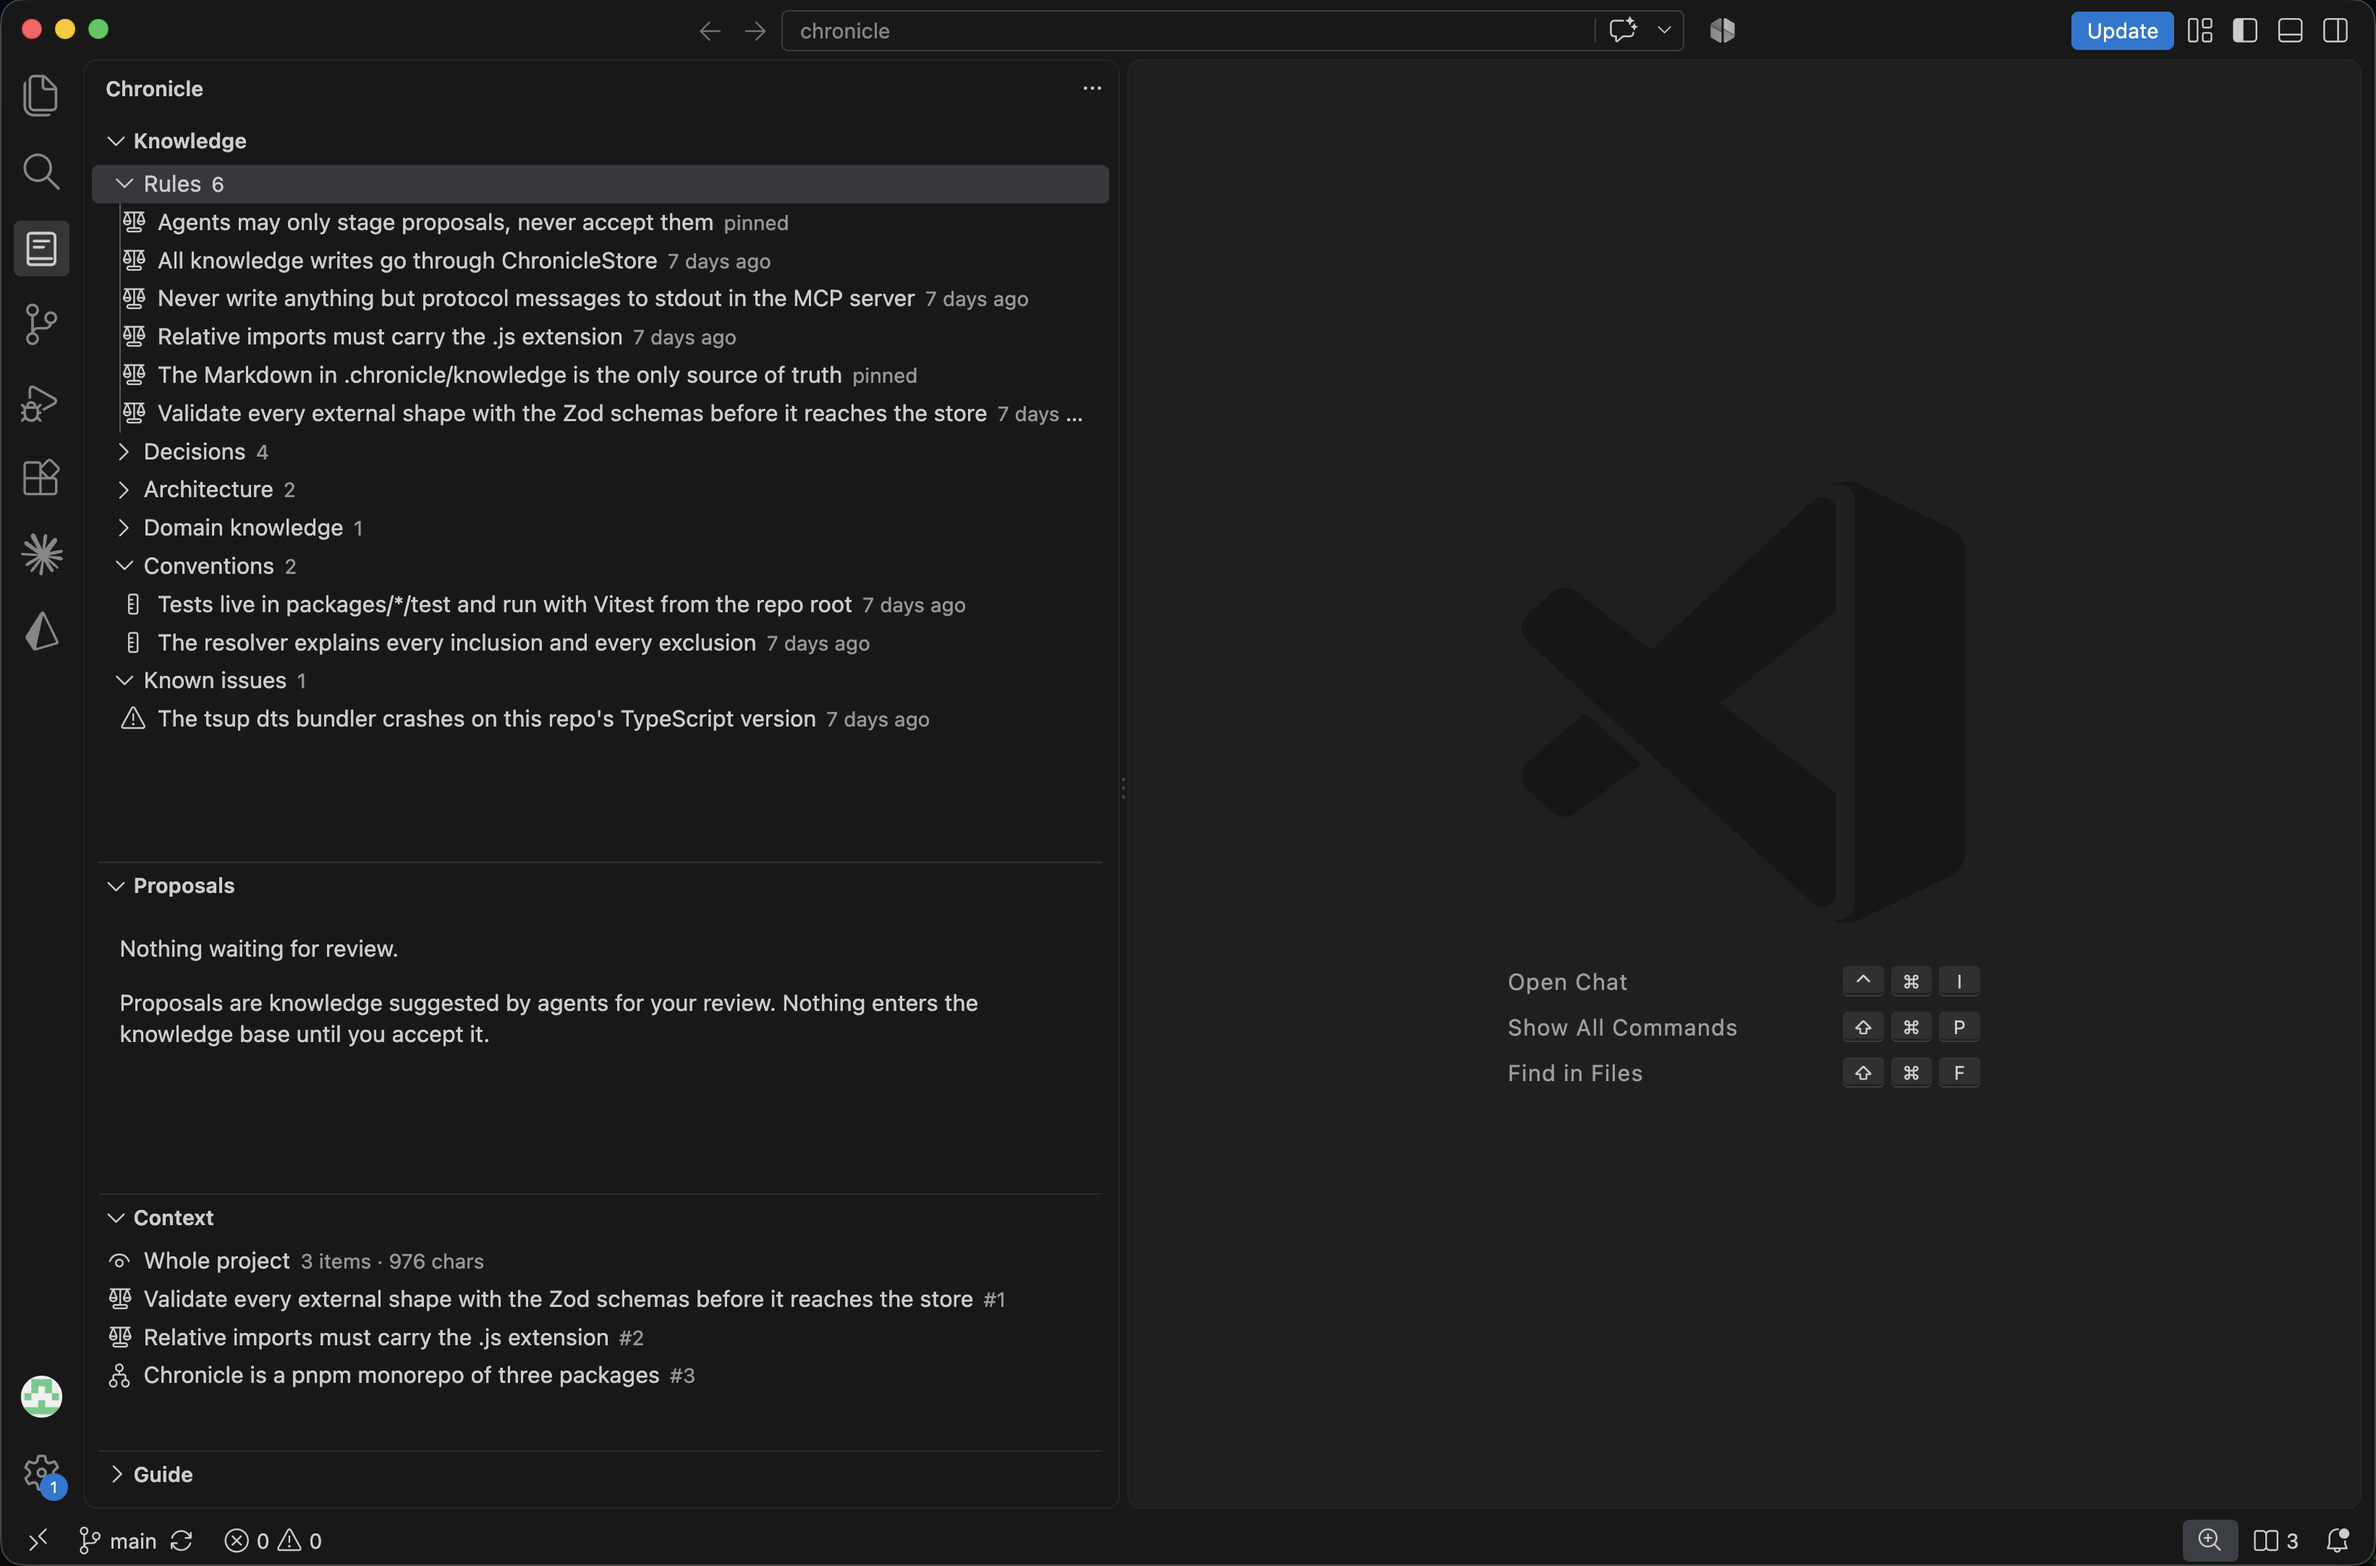
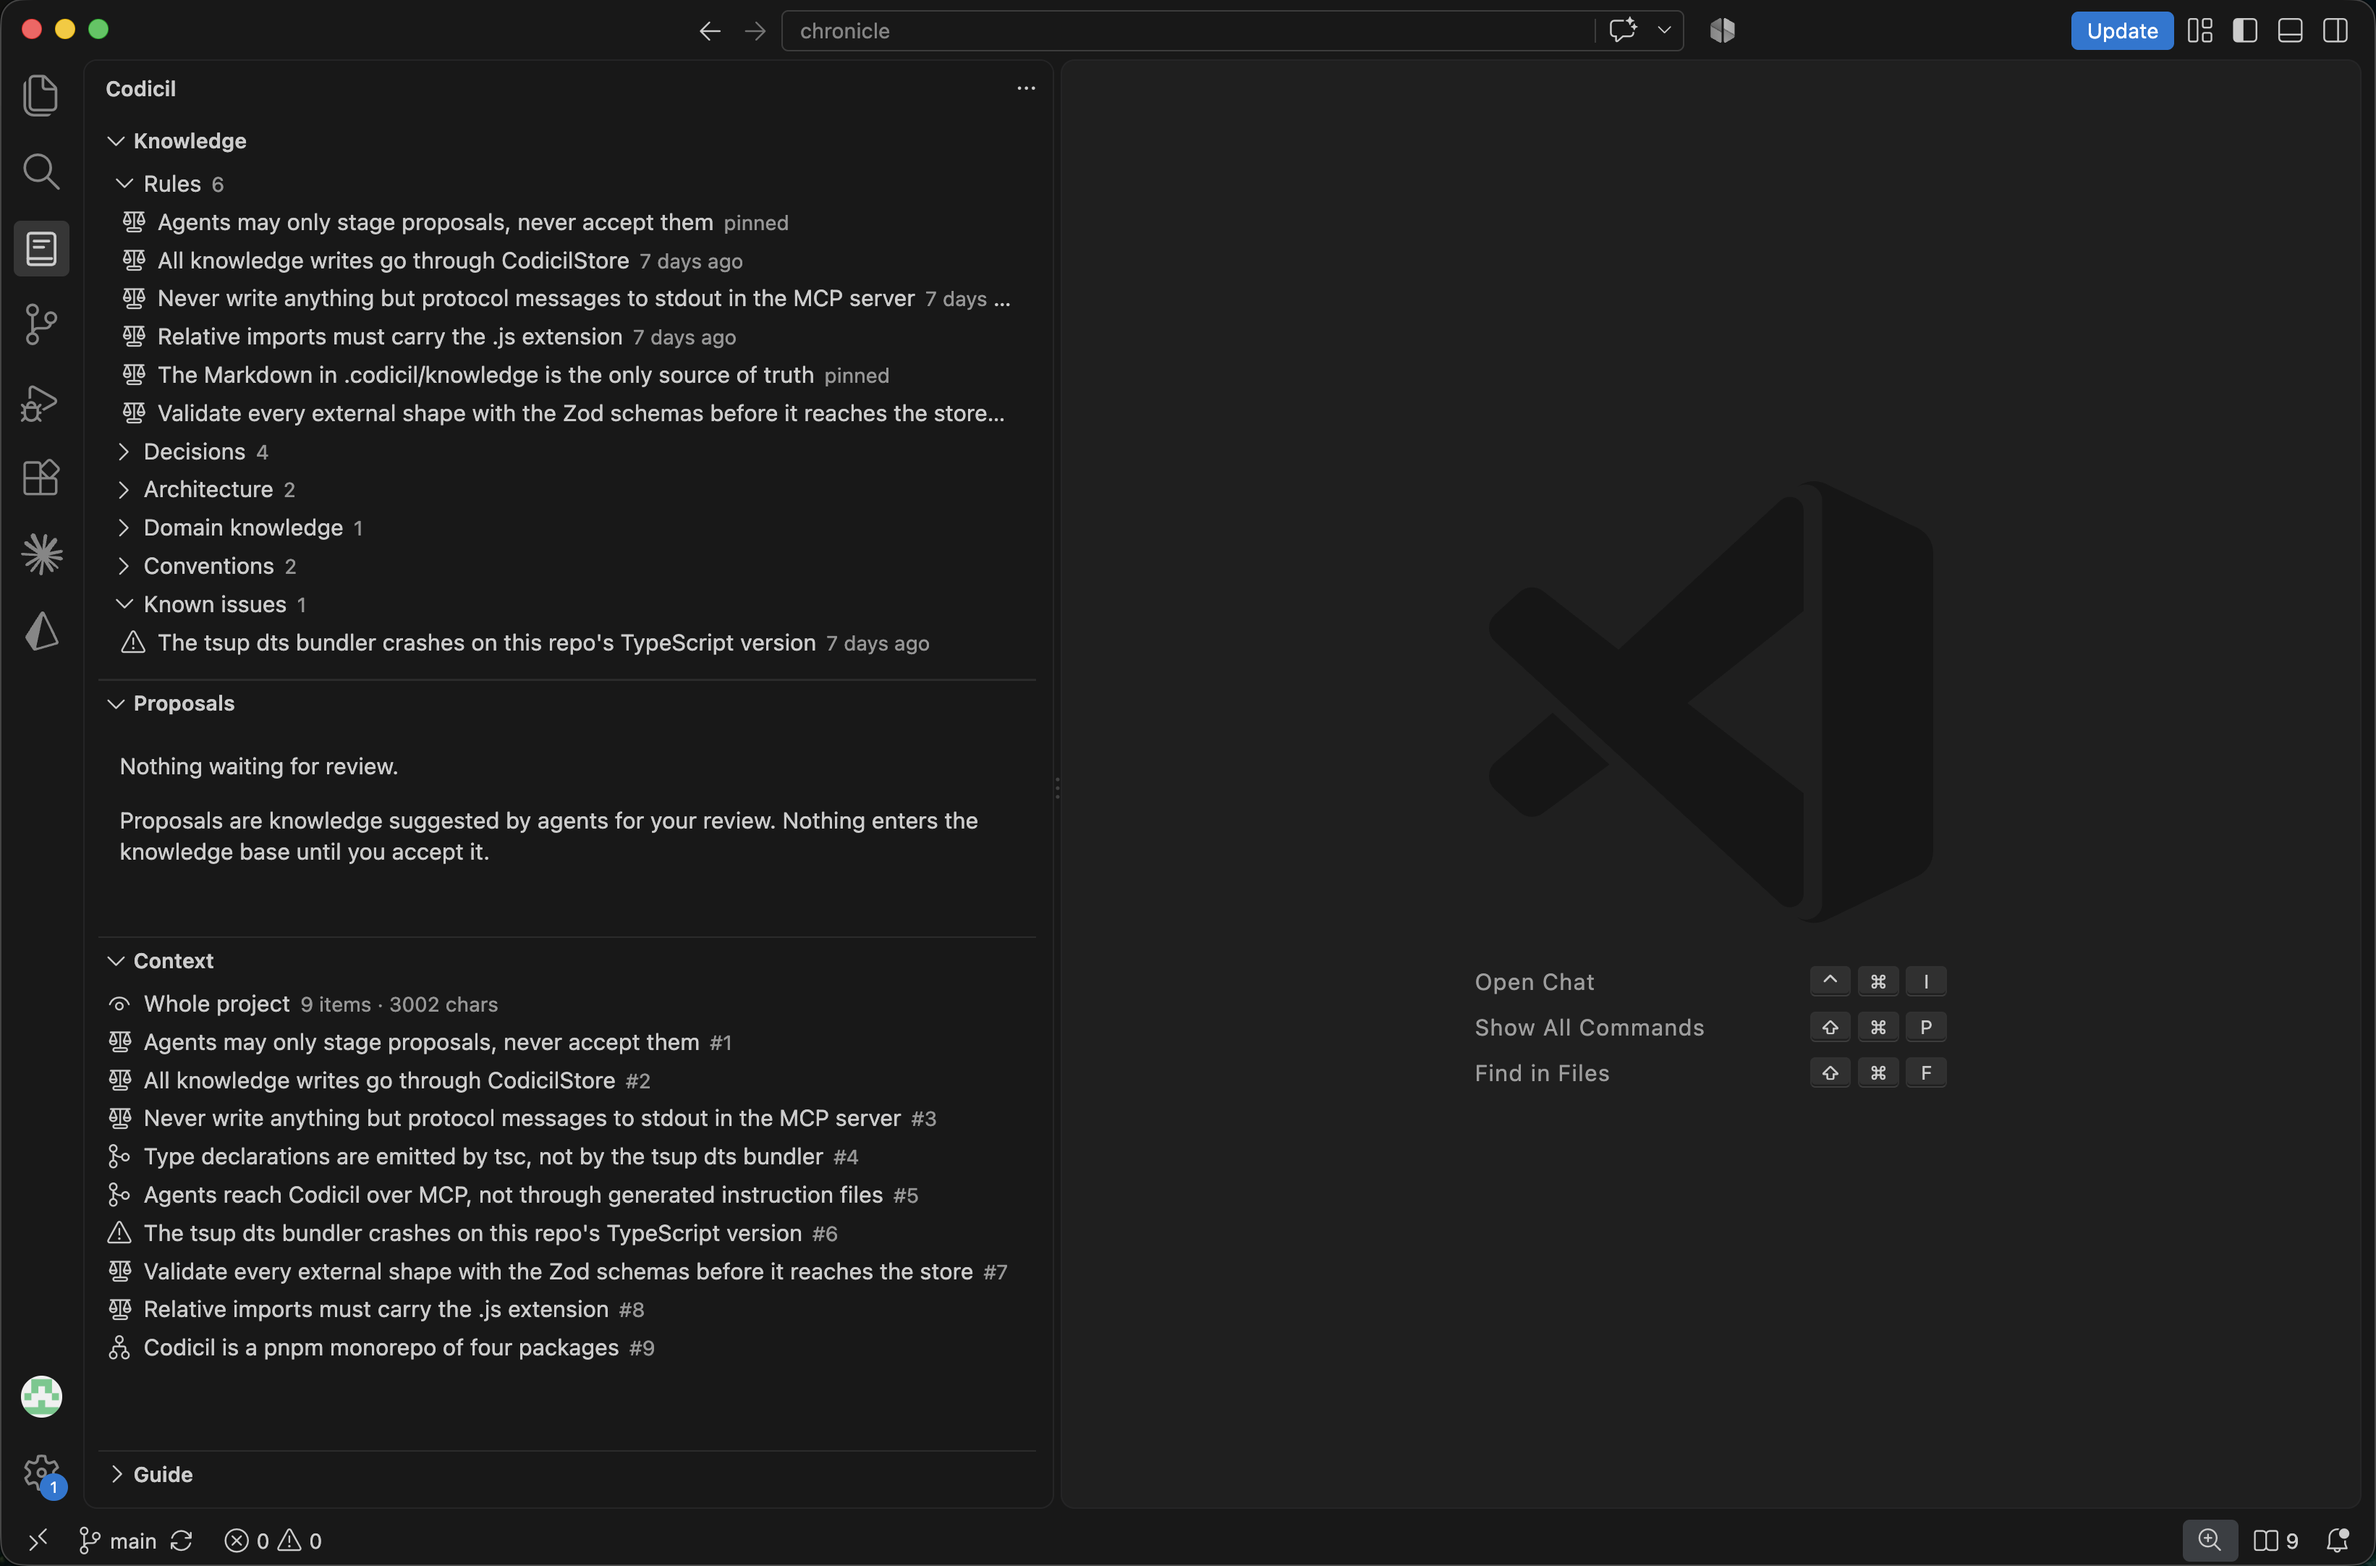
cleans package

diff --git a/packages/cli/README.md b/packages/cli/README.md
@@ -1,11 +1,11 @@
-# codicil
+# codicil-cli
 
 > The command line for Codicil — a developer-controlled, versioned knowledge layer for your AI coding agents.
 
-[![npm version](https://img.shields.io/npm/v/codicil.svg)](https://www.npmjs.com/package/codicil)
-[![license](https://img.shields.io/npm/l/codicil.svg)](https://github.com/pranit-sh.codicil/blob/main/LICENSE)
-[![Downloads](https://img.shields.io/npm/dm/codicil)](https://www.npmjs.com/package/codicil)
-[![Issues](https://img.shields.io/github/issues/pranit-sh.codicil.svg)](https://github.com/pranit-sh.codicil/issues)
+[![npm version](https://img.shields.io/npm/v/codicil-cli.svg)](https://www.npmjs.com/package/codicil-cli)
+[![license](https://img.shields.io/npm/l/codicil.svg)](https://github.com/pranit-sh/codicil/blob/main/LICENSE)
+[![Downloads](https://img.shields.io/npm/dm/codicil-cli)](https://www.npmjs.com/package/codicil-cli)
+[![Issues](https://img.shields.io/github/issues/pranit-sh/codicil.svg)](https://github.com/pranit-sh/codicil/issues)
 
 Codicil keeps a project's knowledge — rules, decisions, architecture,
 conventions, domain concepts, current context and known issues — as Markdown in
@@ -17,13 +17,13 @@ reviews what agents propose, and inspects what's known.
 ## Install
 
 ```bash
-npm install -g codicil
+npm install -g codicil-cli
 ```
 
 Or run without installing:
 
 ```bash
-npx codicil --help
+npx codicil-cli --help
 ```
 
 Node.js ≥ 18.
@@ -63,11 +63,11 @@ Codicil also ships:
 - **[codicil-mcp](https://www.npmjs.com/package/codicil-mcp)** — an MCP server so agents read this knowledge directly.
 - **[Codicil for VS Code](https://marketplace.visualstudio.com/items?itemName=pranit-sh.codicil)** — a UI to review proposals and browse context.
 
-See the **[project README](https://github.com/pranit-sh.codicil#readme)** for the full picture.
+See the **[project README](https://github.com/pranit-sh/codicil#readme)** for the full picture.
 
 ## Issues & feature requests
 
-Found a bug or want a new feature? **[Open an issue on GitHub](https://github.com/pranit-sh.codicil/issues/new/choose)**.
+Found a bug or want a new feature? **[Open an issue on GitHub](https://github.com/pranit-sh/codicil/issues/new/choose)**.
 
 ## Support
 
@@ -75,4 +75,4 @@ If Codicil saved you a headache, you can [![Buy Me a Coffee](https://img.shields
 
 ## License
 
-[MIT](https://github.com/pranit-sh.codicil/blob/main/LICENSE)
+[MIT](https://github.com/pranit-sh/codicil/blob/main/LICENSE)

diff --git a/README.md b/README.md
@@ -93,7 +93,7 @@ node packages/cli/dist/bin.js context --file src/api/users.ts
 
 | Package | Name | What it is |
 | --- | --- | --- |
-| `packages/cli` | [`codicil`](https://www.npmjs.com/package/codicil) | The command line |
+| `packages/cli` | [`codicil-cli`](https://www.npmjs.com/package/codicil-cli) | The command line, installed as `codicil` |
 | `packages/mcp` | [`codicil-mcp`](https://www.npmjs.com/package/codicil-mcp) | Stdio MCP server: read tools, a resource, and `knowledge_propose` |
 | `packages/vscode` | Codicil for VS Code | Knowledge tree, proposal review, active-context view |
 | `packages/core` | `@codicil/core` (bundled) | Schema, store, scope model, resolver, verifier, proposals, history, doctor |
